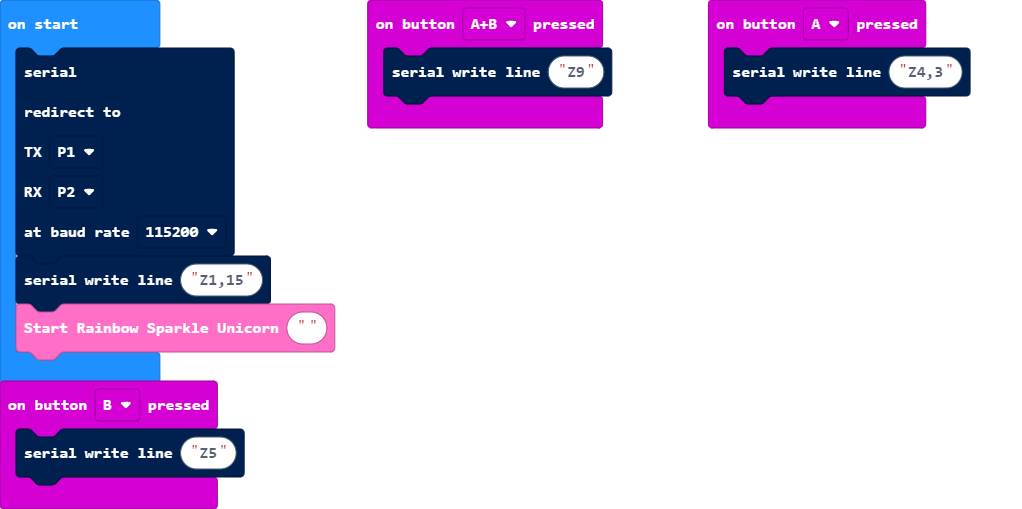
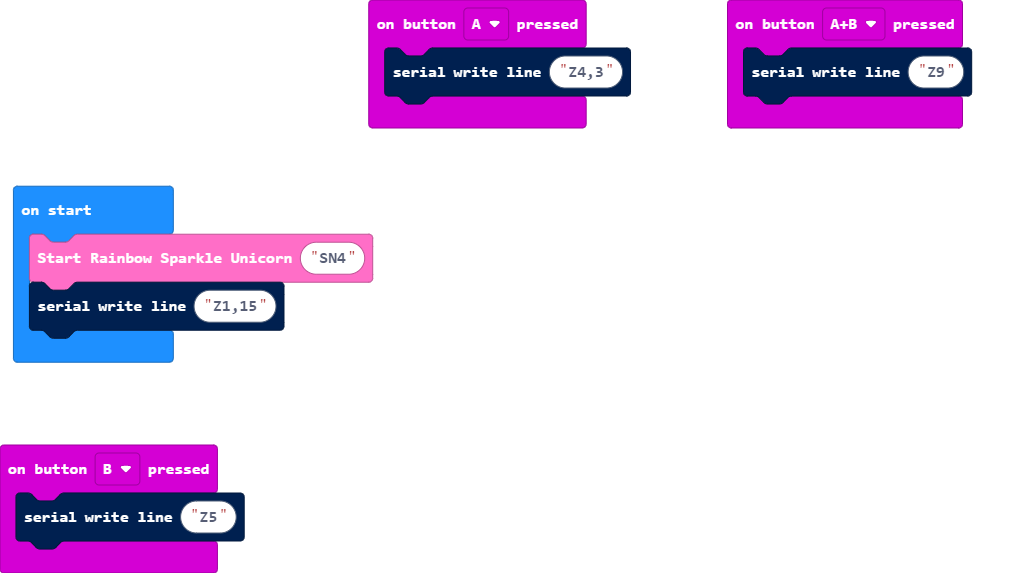
Update pxt.json, main.blocks, main.ts, custom.ts

Changed region(s): [[0.0, 0.0, 0.364, 0.9725], [0.6673, 0.0, 0.9706, 0.2652], [0.364, 0.0, 0.637, 0.2652]]

diff --git a/custom.ts b/custom.ts
@@ -30,6 +30,7 @@ const enum TouchAction {
 
 let MICROBIT_RAINBOW_SPARKLE_UNICORN_TOUCH_SENSOR_TOUCHED_ID = 2148
 let MICROBIT_RAINBOW_SPARKLE_UNICORN_TOUCH_SENSOR_RELEASED_ID = 2149
+let MICROBIT_EVT_ANY = 0  // MICROBIT_EVT_ANY
 
 const enum MyEnum {
     //% block="one"
@@ -37,8 +38,6 @@ const enum MyEnum {
     //% block="two"
     Two
 }
-
-let MICROBIT_EVT_ANY = 0  // MICROBIT_EVT_ANY
 
 /**
  * Custom blocks
@@ -51,7 +50,7 @@ namespace RainbowSparkleUnicorn {
 
     /**
      * Add into the start function to initialise the board.
-     * @param value the serial number of the Rainbox Sparkle Unicorn board
+     * @param the serial number of the Rainbox Sparkle Unicorn board, eg: "SN4"
      */
     //% blockId=TargetArchitecture_initwithserialnumber
     //% block="Start Rainbow Sparkle Unicorn $SN"

diff --git a/main.ts b/main.ts
@@ -7,10 +7,5 @@ input.onButtonPressed(Button.AB, function () {
 input.onButtonPressed(Button.B, function () {
     serial.writeLine("Z5")
 })
-serial.redirect(
-SerialPin.P1,
-SerialPin.P2,
-BaudRate.BaudRate115200
-)
+RainbowSparkleUnicorn.start("SN4")
 serial.writeLine("Z1,15")
-
